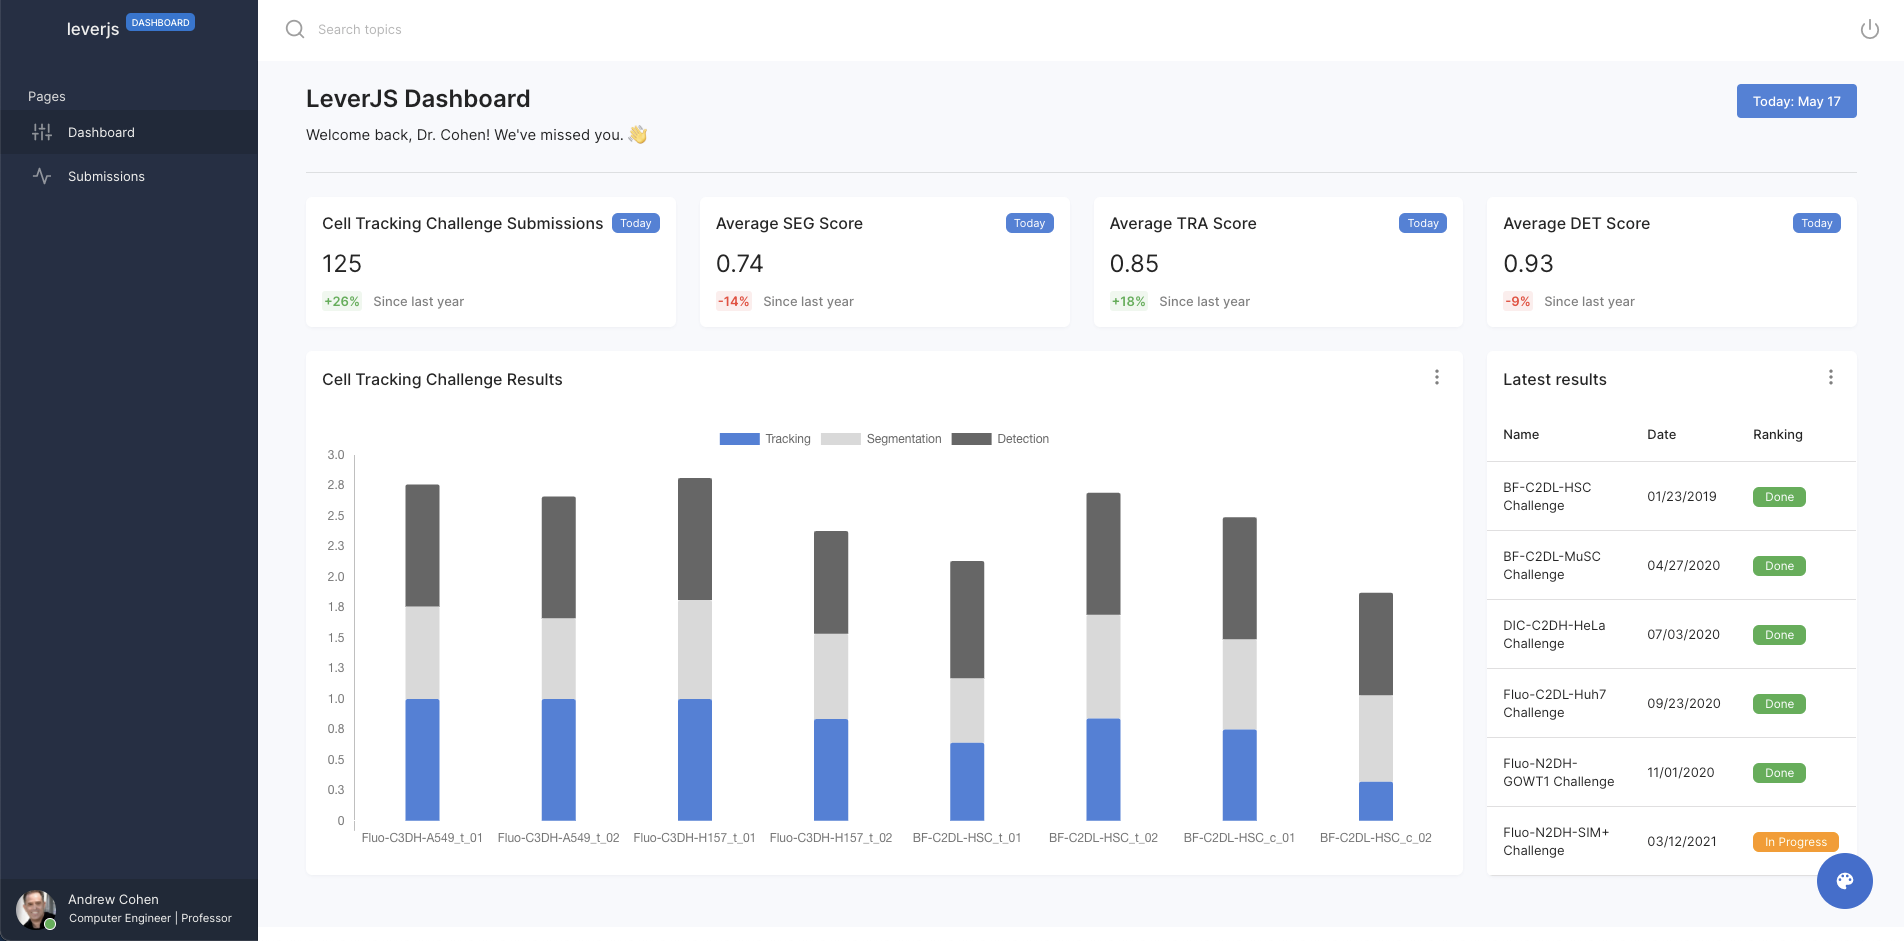
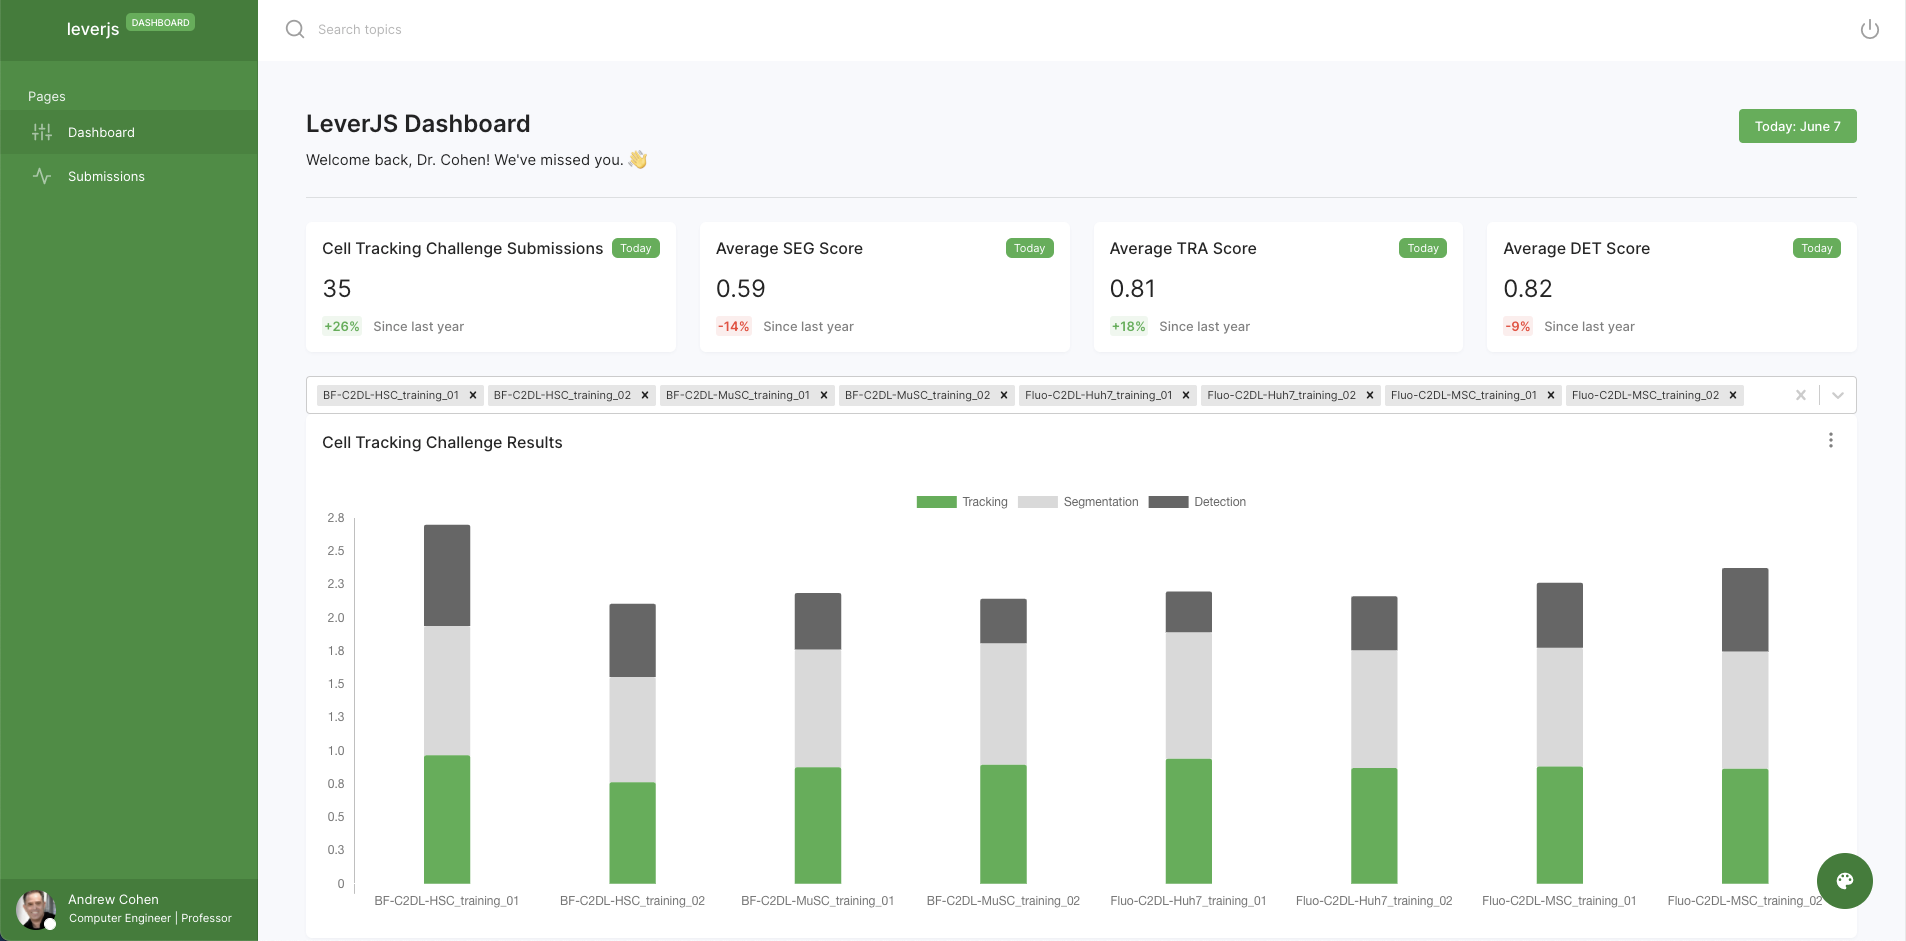
replaced color and image on the landing page

diff --git a/src/components/Sidebar.js b/src/components/Sidebar.js
@@ -1,5 +1,5 @@
 import React, { useState } from "react";
-import styled from "styled-components/macro";
+import styled, { withTheme } from "styled-components/macro";
 import { rgba } from "polished";
 import { NavLink, withRouter } from "react-router-dom";
 import { darken } from "polished";
@@ -74,7 +74,7 @@ const Brand = styled(ListItem)`
 `;
 
 const BrandChip = styled(Chip)`
-  background-color: ${blue[700]};
+  background-color: ${(props) => props.theme.palette.secondary.main};
   border-radius: 5px;
   color: ${(props) => props.theme.palette.common.white};
   font-size: 55%;
